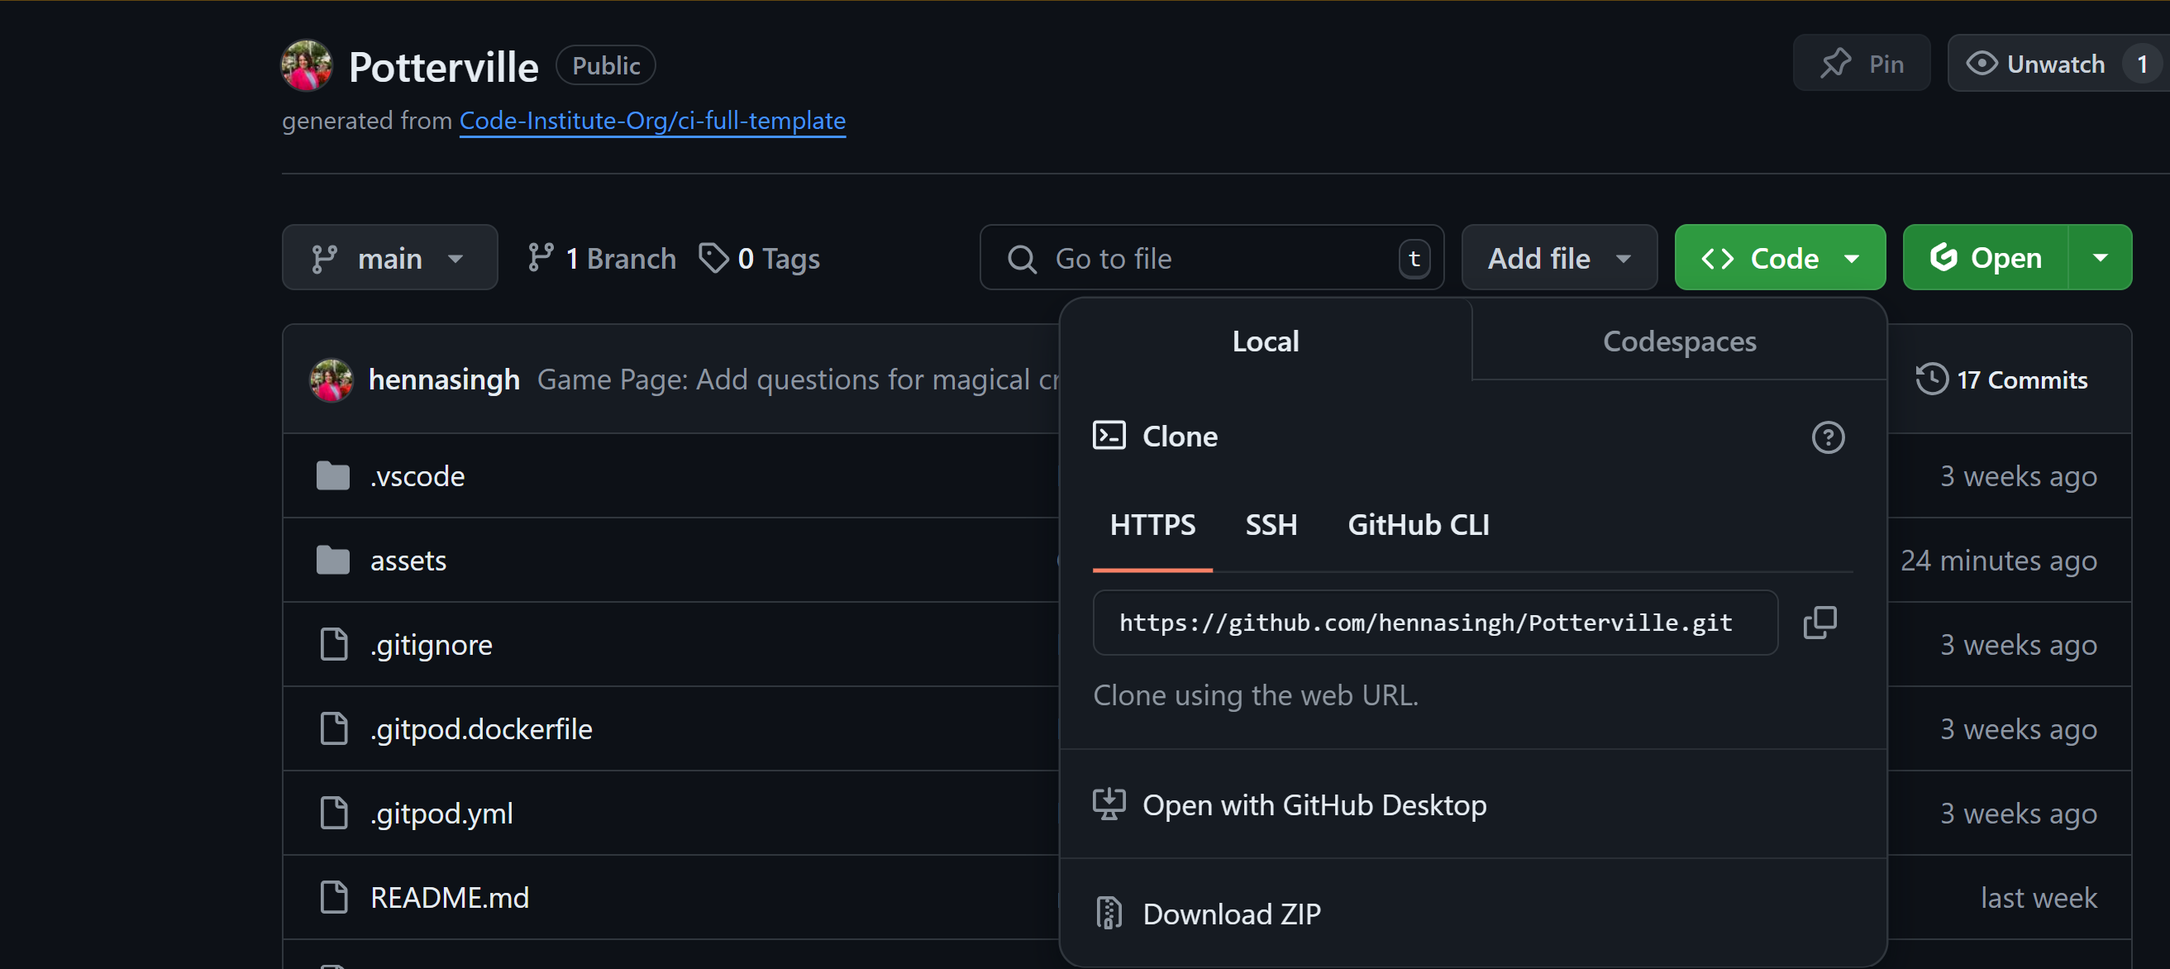
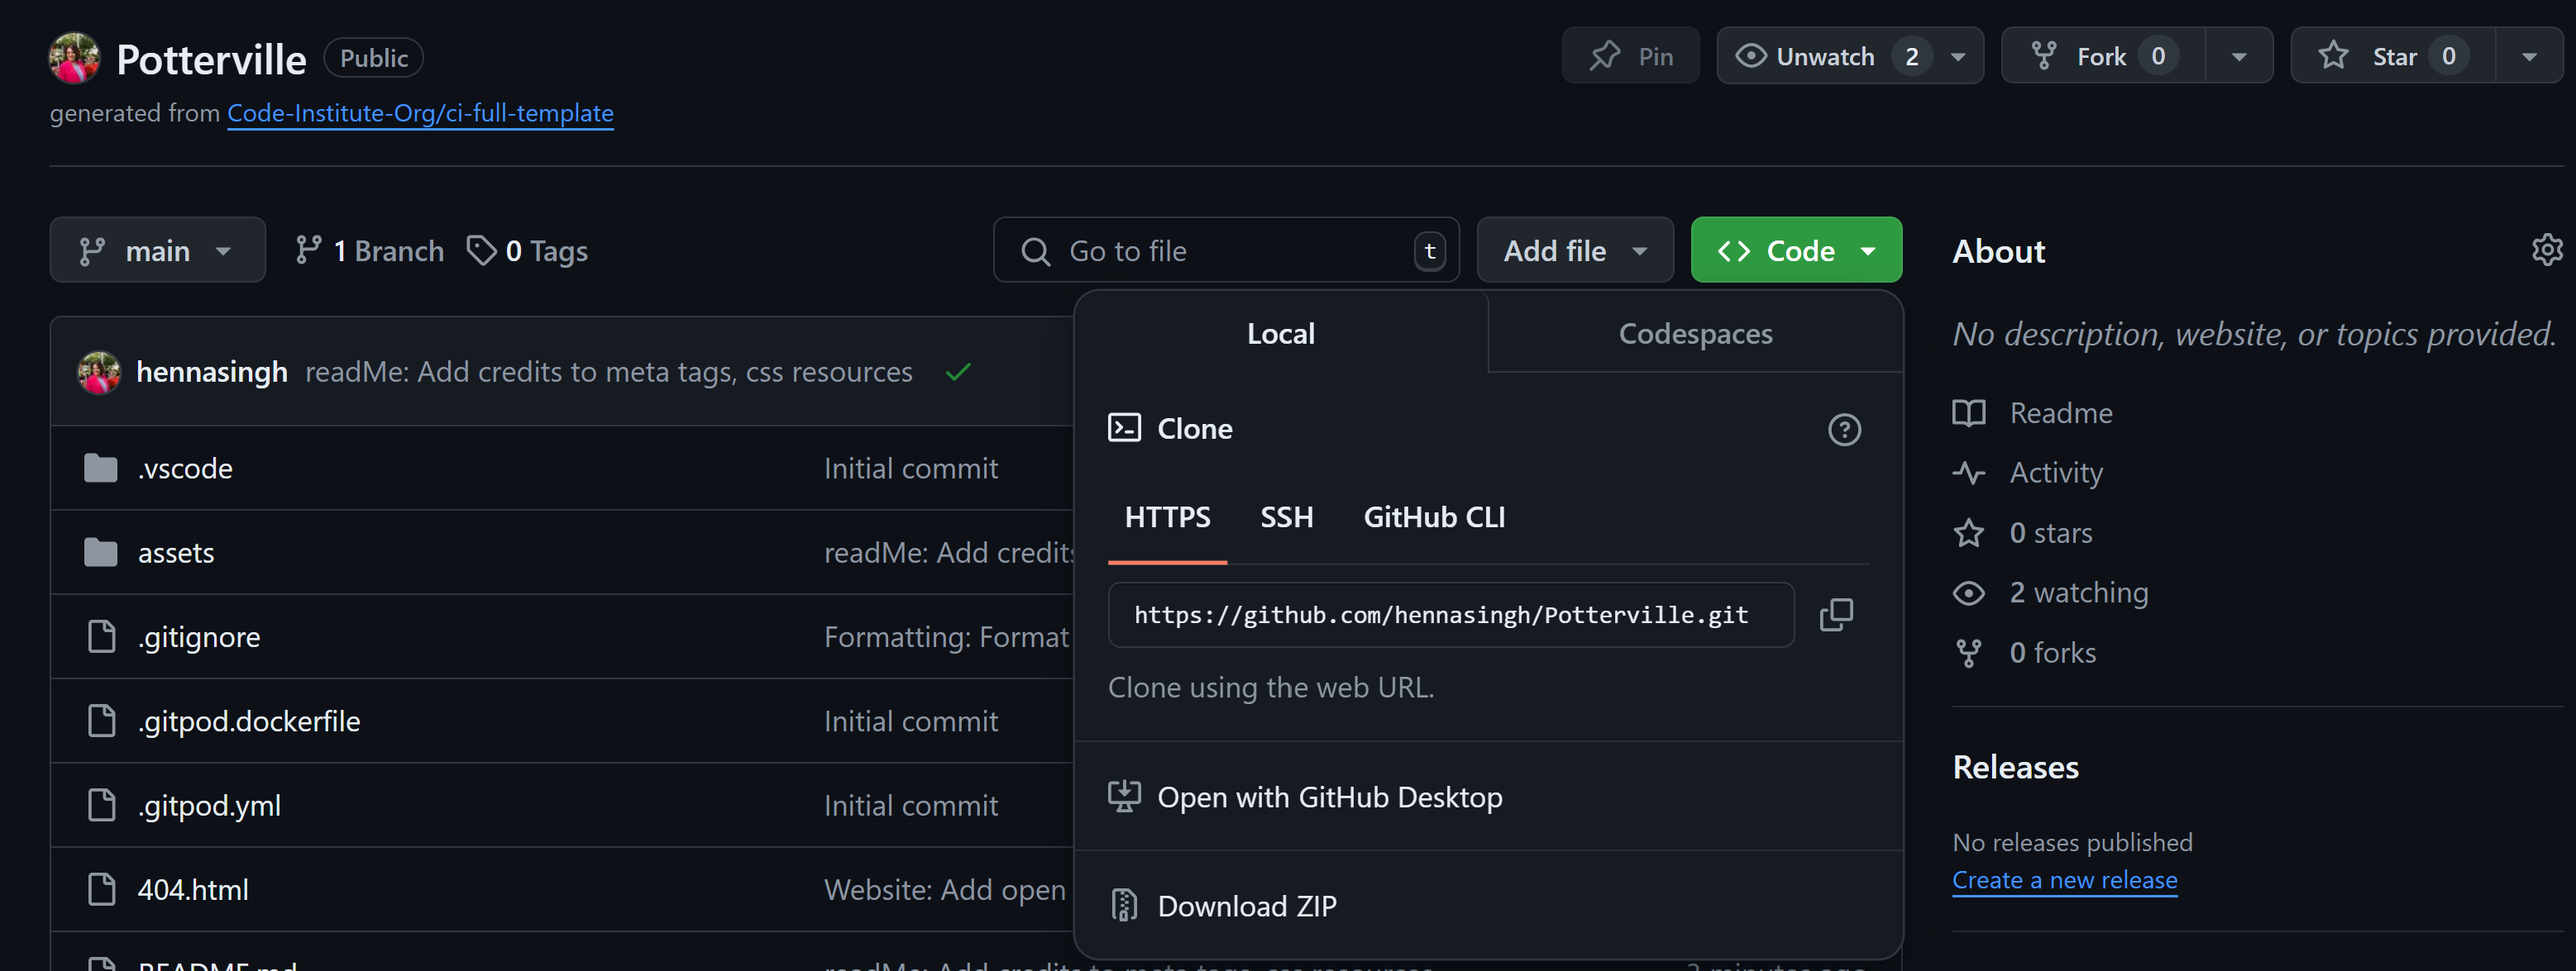
readMe: Add details on forking

diff --git a/README.md b/README.md
@@ -212,7 +212,7 @@ The website is deployed using Github Pages functionality provided by Github. The
 6. Under the branch section below that, select /root folder and save.
 7. Come back to Code section of the repository. Give a few minutes and refresh the page. You will find Deployments section generated the right side with a URL to the deployed site.
 
-### Local Clones
+### Local Clones or Fork
 
 You can clone the project to deploy it locally on your own computer
 
@@ -223,6 +223,7 @@ You can clone the project to deploy it locally on your own computer
 
 3. There are 3 methods provided to clone 'HTTPS', 'SSH',or 'Github Cli' that requires you to copy the repository link and type `git clone`in your terminal (mac) or command prompt (windows) in the chosen directory.
 4. The 4th option requires you to install Github Desktop and you can open the repository in your chosen local directory.
+5. The other option is to Fork the repository as shown in top right of the snapshot above. This will create a copy of repo in your own Github and you can make changes making this repo as a starting template.
 
 
 ## Credits
